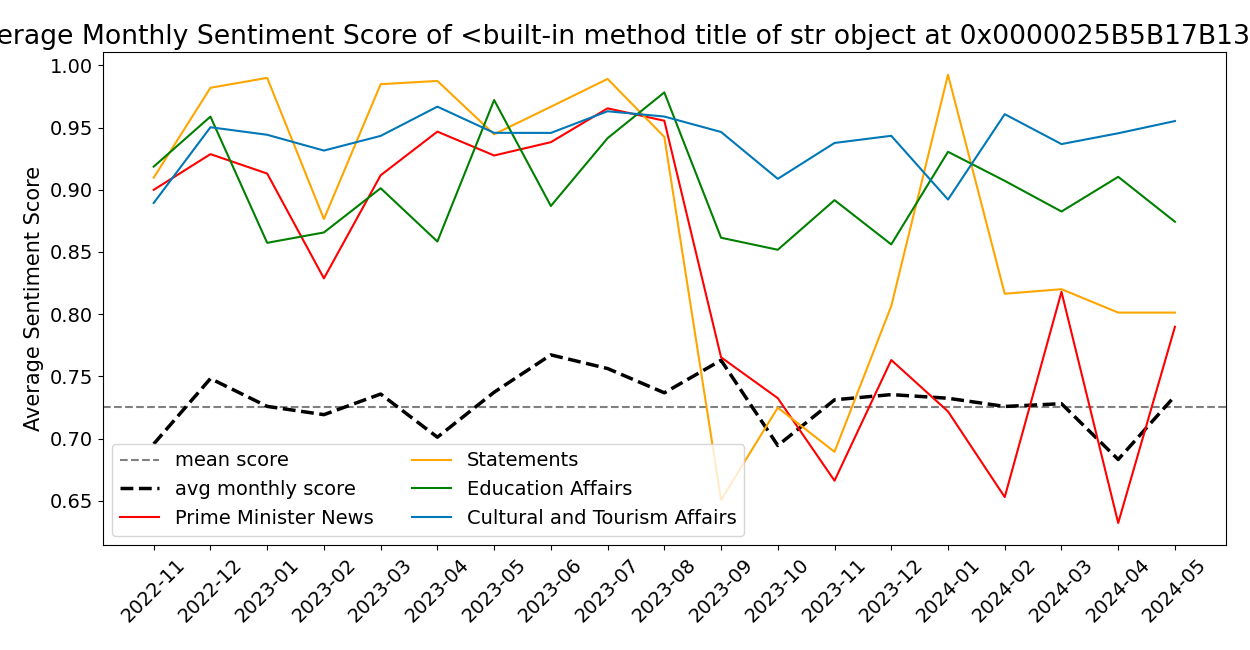
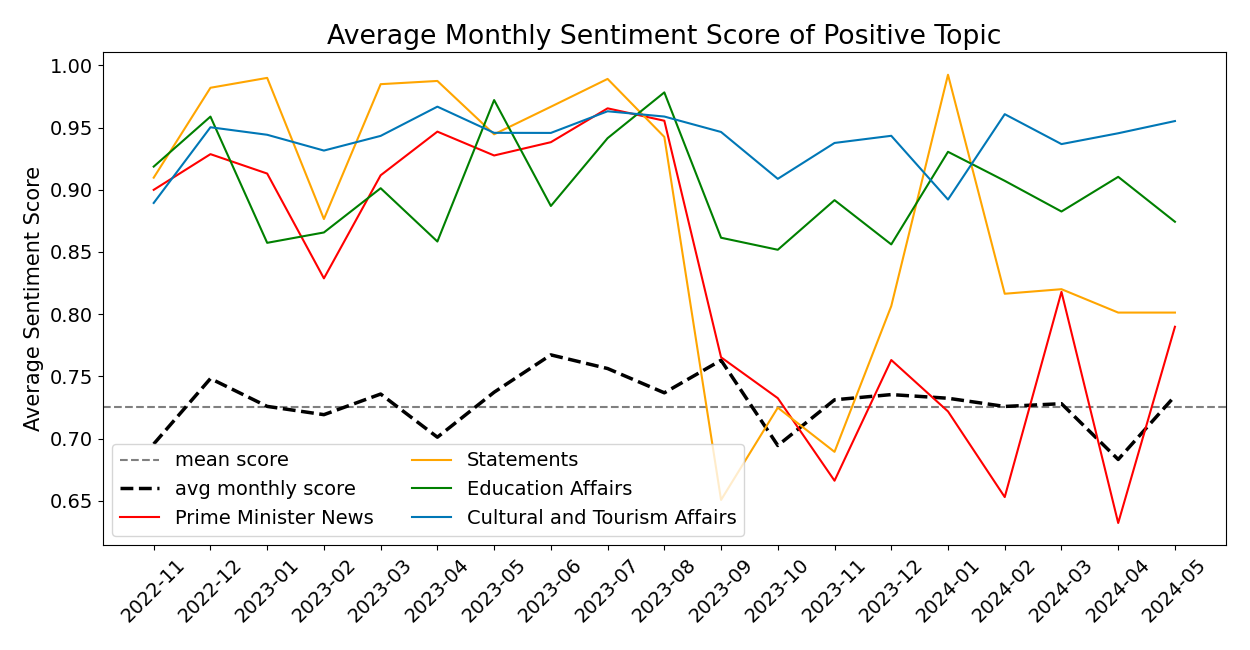
modify average month by freq topic

Changed region(s): [[0.0, 0.0308, 0.9984, 0.0923]]

diff --git a/core/analyze_result.py b/core/analyze_result.py
@@ -168,7 +168,7 @@ class Analysis:
         for i, topic in enumerate(df.columns):
             sns.lineplot(x=df.index, y=df[topic], color=colors[i], label=topic)
         plt.legend(fontsize=14, ncol=2, loc="lower left")
-        plt.title(f"Average Monthly Sentiment Score of {specific_type.title} Topic")
+        plt.title(f"Average Monthly Sentiment Score of {specific_type.title()} Topic")
         plt.xlabel("")
         plt.ylabel("Average Sentiment Score", fontsize=15)
         plt.xticks(range(len(self.all_months)), self.all_months, rotation=45, fontsize=14)
